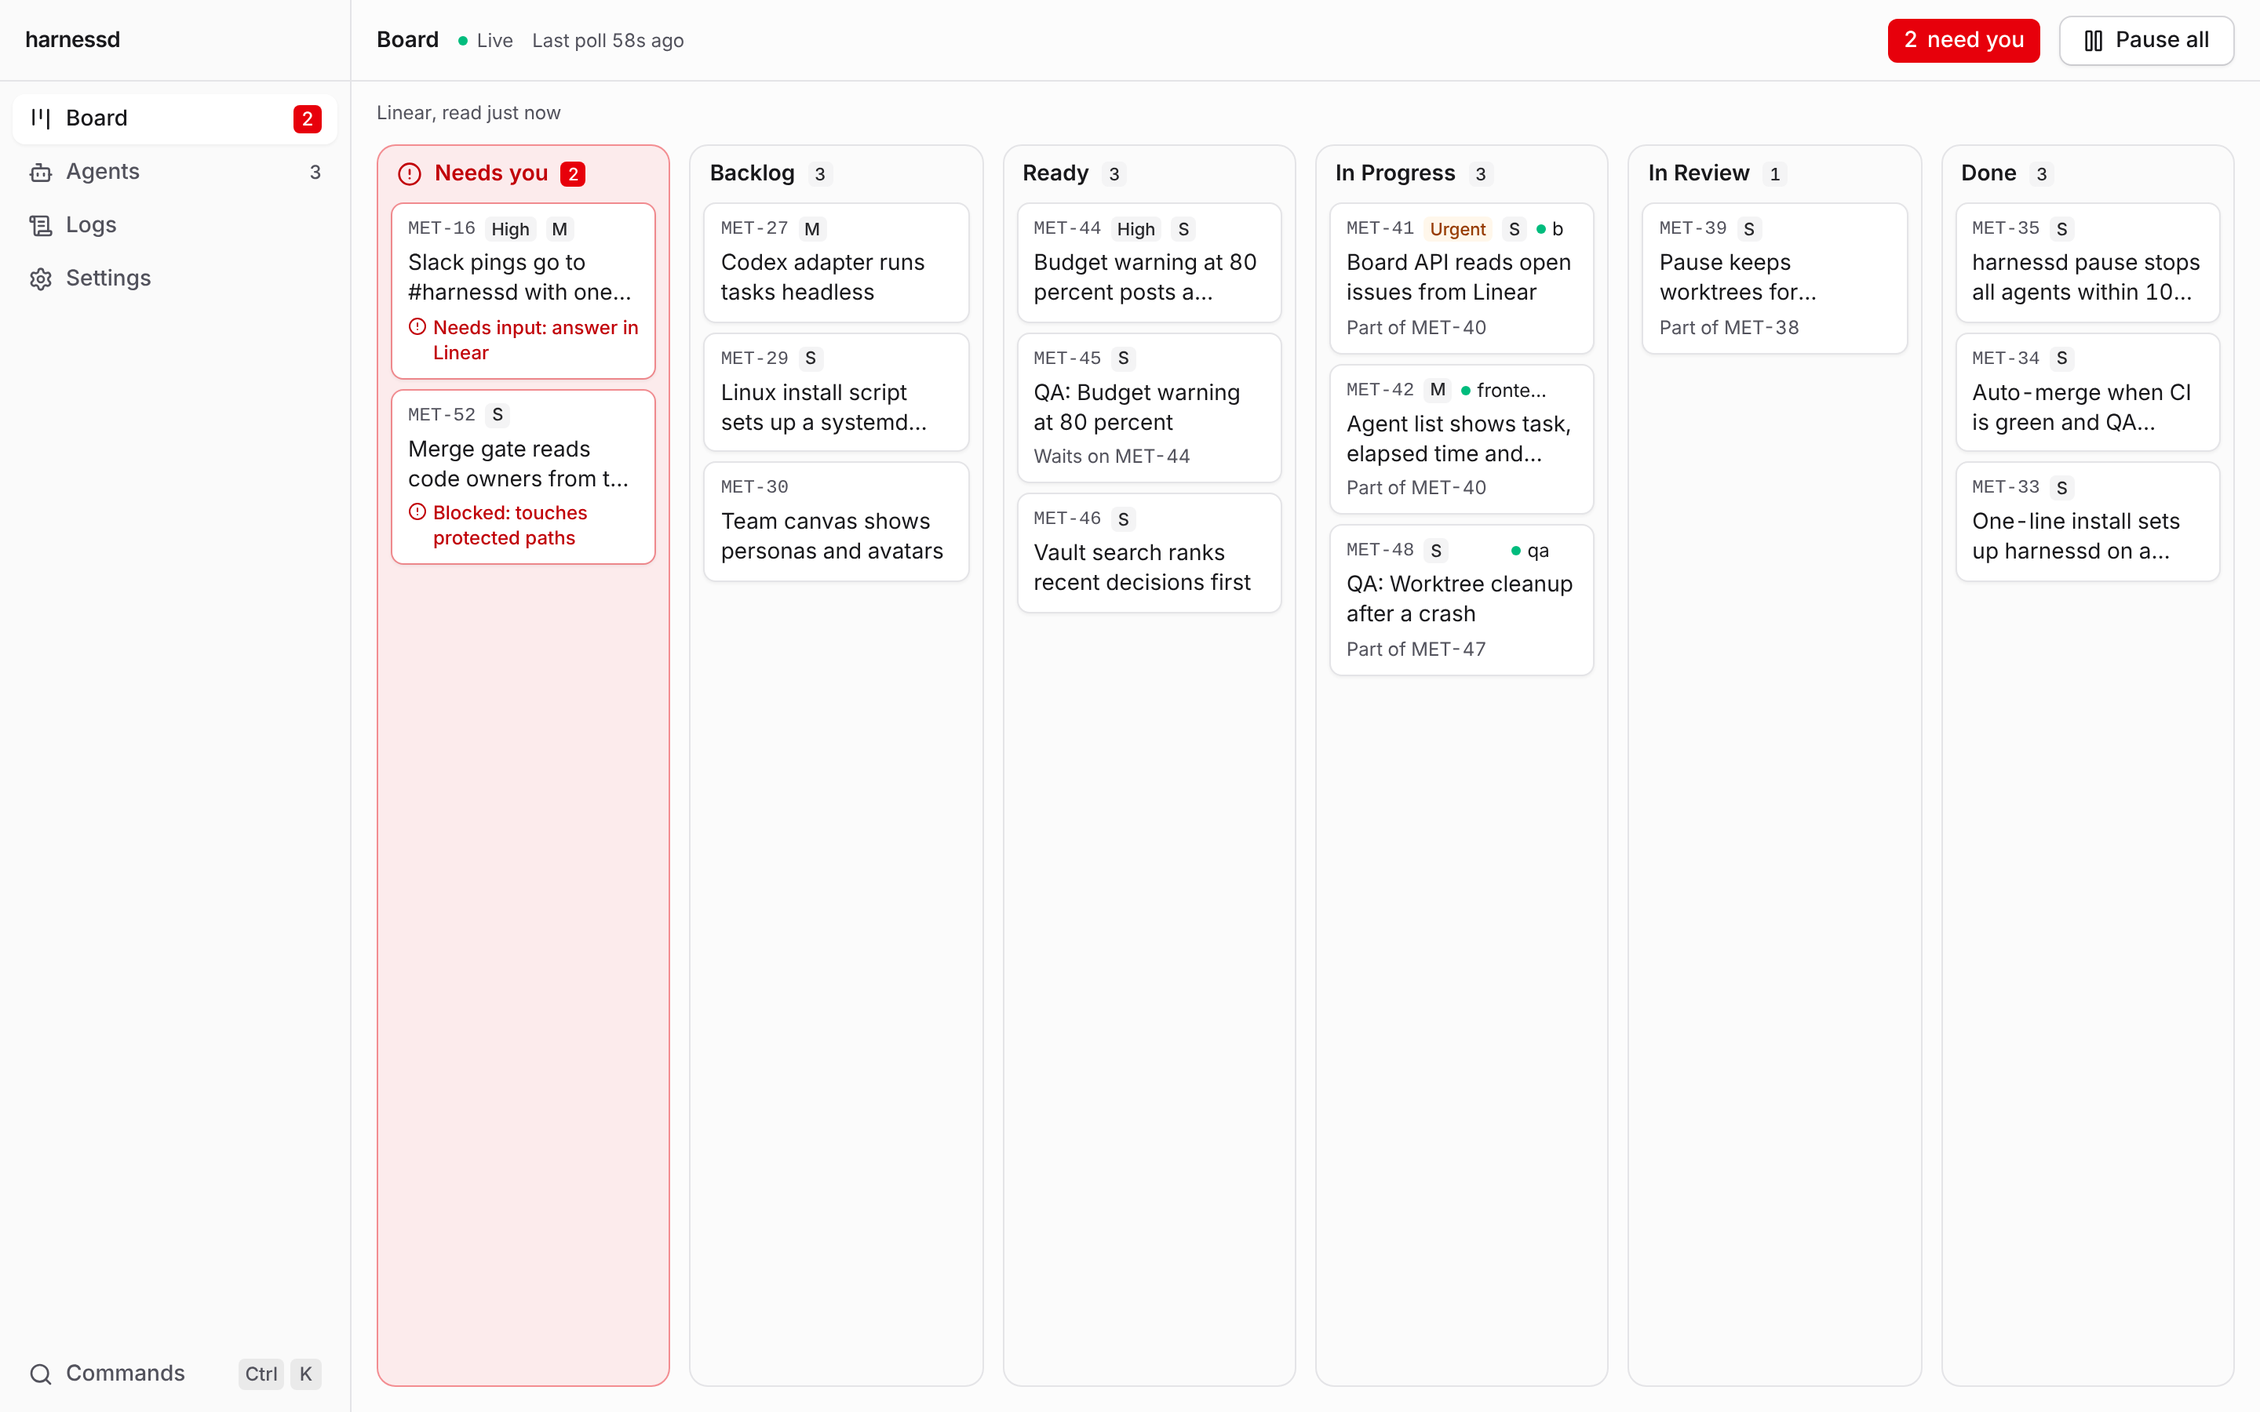
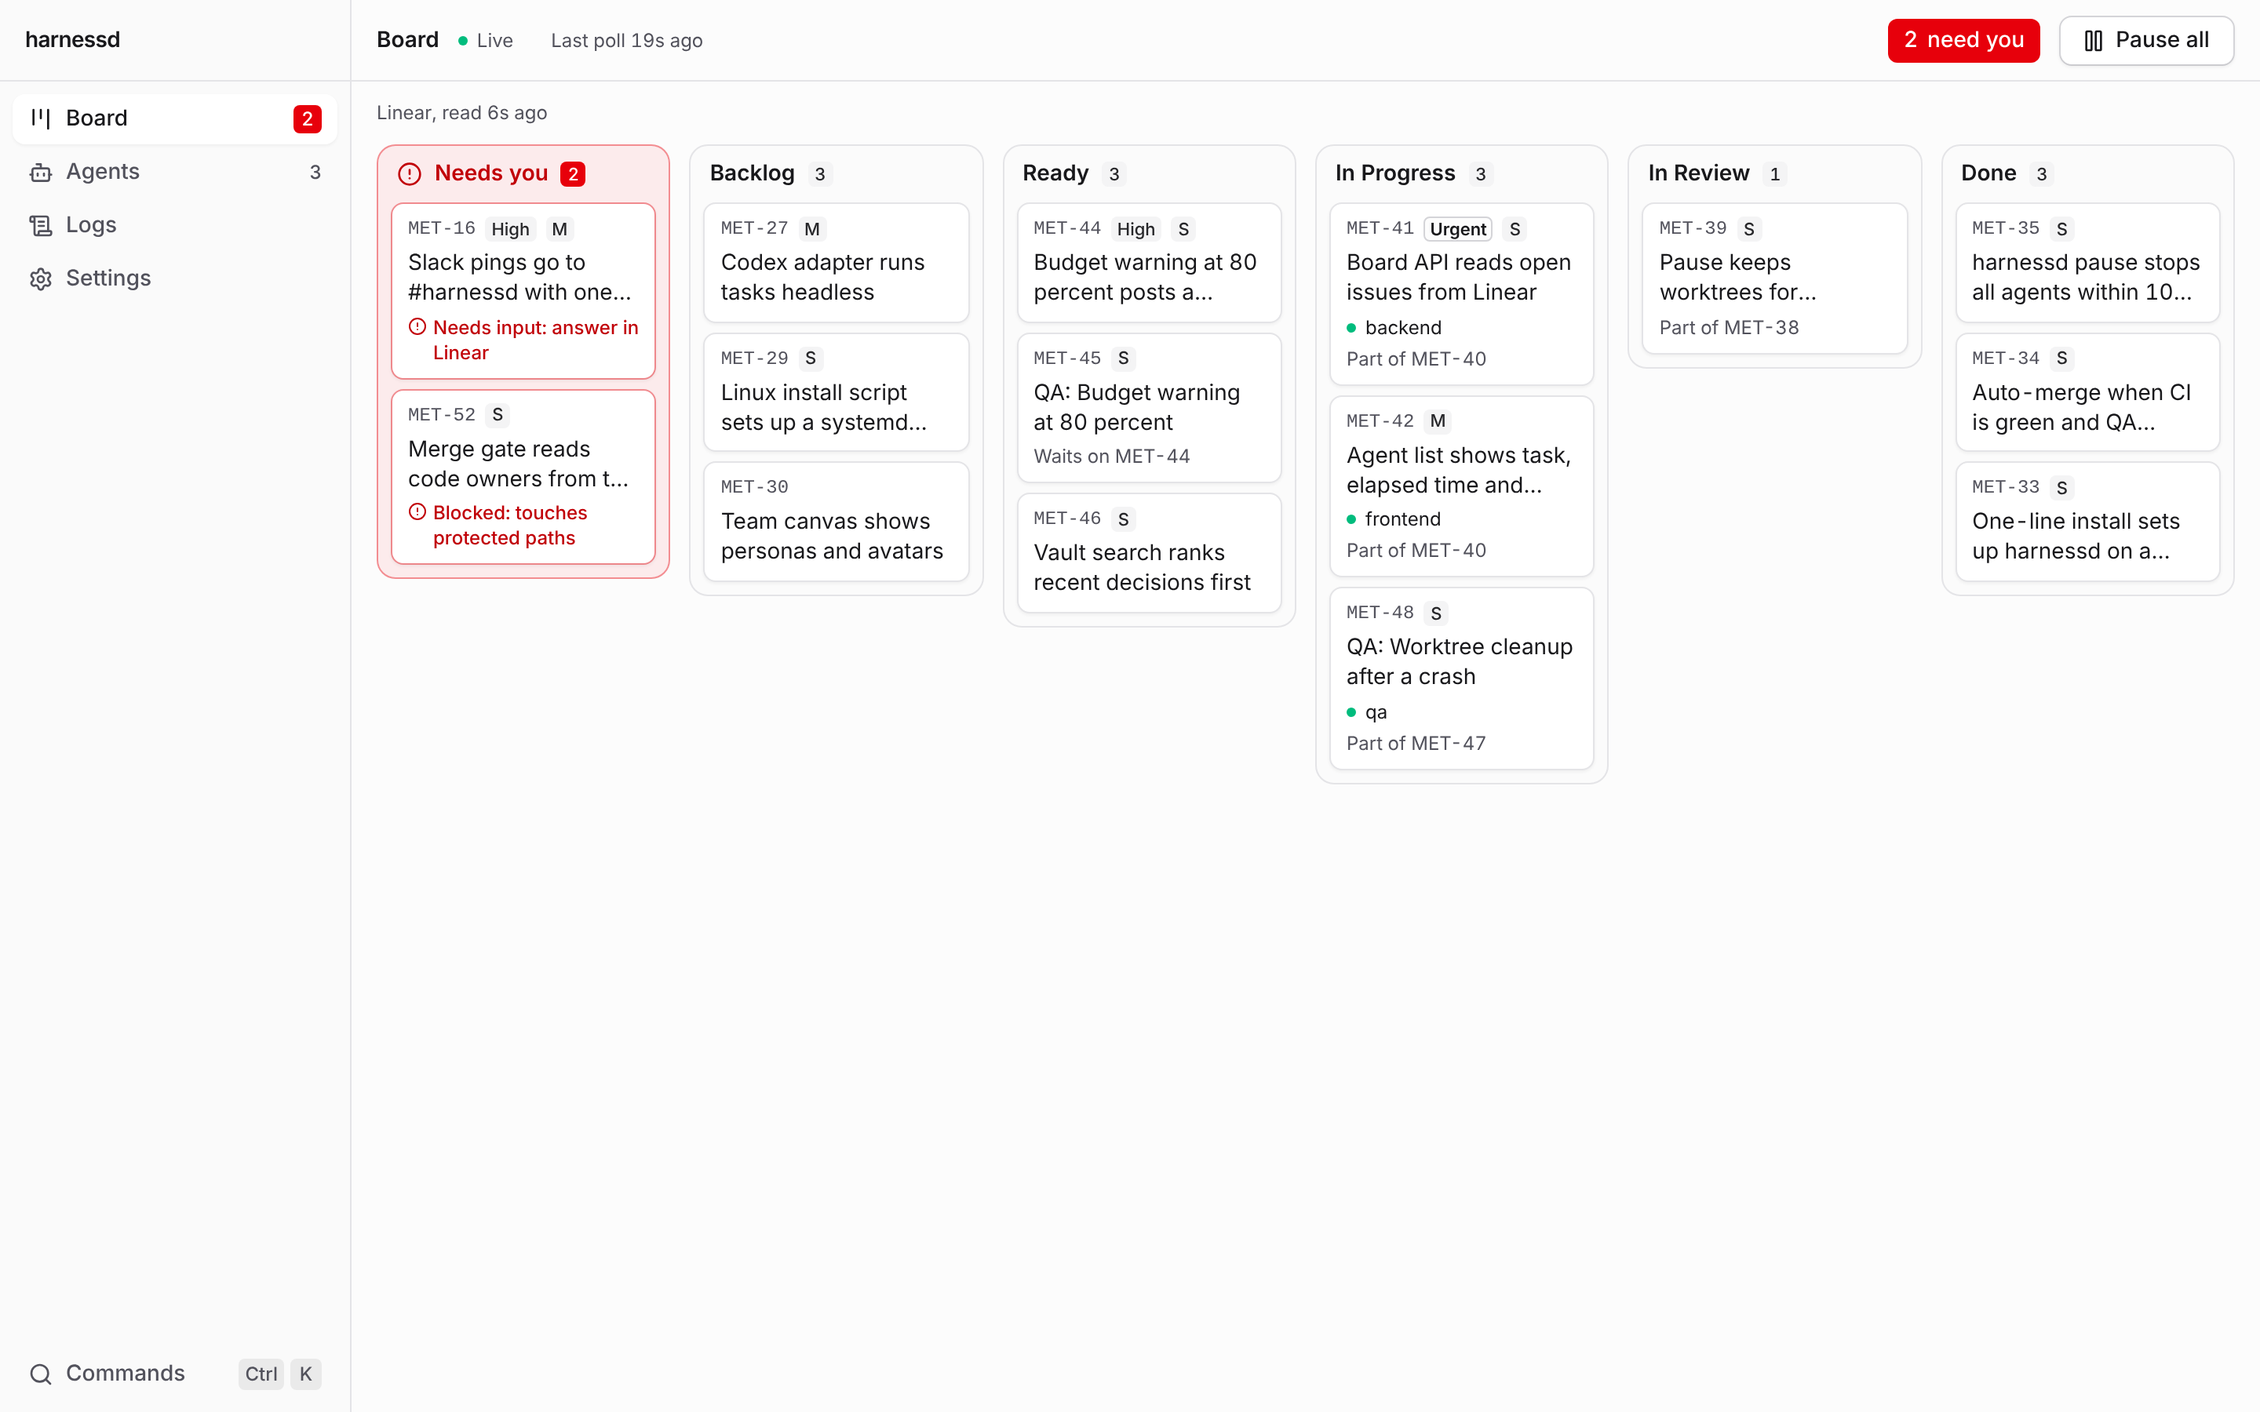
fix(ui): MET-29 act on the impeccable audit
- Focus returns after the palette; a view change focuses the content and sets the title.
- The poll time sits outside the live region.
- Touch targets get a centred 44 px hit area on coarse pointers.
- The Agents table hides Budget and Tokens below 1024 px.
- Recapture the screenshots.

Claude-Session: https://claude.ai/code/session_01D1Be13HZ2JYVmWMPQne1MW

diff --git a/packages/ui/app/src/shell/AppHeader.tsx b/packages/ui/app/src/shell/AppHeader.tsx
@@ -59,8 +59,13 @@ export function AppHeader({
       <div className="flex min-w-0 flex-1 items-center gap-3 text-muted-foreground text-xs">
         <Tooltip>
           <TooltipTrigger
-            render={<span className="inline-flex items-center gap-1.5" />}
-            aria-label={`Connection: ${c.text}`}
+            render={
+              <button
+                type="button"
+                className="inline-flex cursor-default items-center gap-1.5 rounded-sm outline-none focus-visible:ring-2 focus-visible:ring-ring"
+              />
+            }
+            aria-label={`Connection: ${c.text}. ${c.hint}`}
           >
             <span aria-hidden="true" className={cn("size-1.5 rounded-full", c.dot)} />
             <span className="hidden sm:inline">{c.text}</span>
@@ -68,20 +73,23 @@ export function AppHeader({
           <TooltipPopup side="bottom">{c.hint}</TooltipPopup>
         </Tooltip>
         <p className="min-w-0 truncate" role="status" aria-live="polite">
-          {paused ? (
+          {paused && (
             <span className="font-medium text-warning-foreground">
               {pause.busy === "pausing"
                 ? "Pausing all agents."
                 : `Paused${since ? ` since ${clockTime(since)}` : ""}${pause.confirmed.reason ? `: ${pause.confirmed.reason}` : ""}. Nothing is dispatched.`}
             </span>
-          ) : pauseUnknown ? (
+          )}
+          {!paused && pauseUnknown && (
             <span className="text-warning-foreground">Pause state unknown: {pauseUnknown}</span>
-          ) : (
-            <span className="hidden md:inline">
-              {lastPollAt ? `Last poll ${sinceText(lastPollAt, now)}` : "No poll yet"}
-            </span>
           )}
         </p>
+        {/* Outside the live region: it changes every second. */}
+        {!paused && !pauseUnknown && (
+          <span className="hidden truncate md:inline">
+            {lastPollAt ? `Last poll ${sinceText(lastPollAt, now)}` : "No poll yet"}
+          </span>
+        )}
       </div>
       {boardDown && (
         <Badge variant="warning" size="lg">
@@ -92,7 +100,7 @@ export function AppHeader({
         <button
           type="button"
           onClick={onShowNeedsYou}
-          className="inline-flex h-7 cursor-pointer items-center gap-1.5 rounded-md bg-destructive px-2.5 font-medium text-sm text-white outline-none transition-colors duration-100 hover:bg-destructive/90 focus-visible:ring-2 focus-visible:ring-ring focus-visible:ring-offset-2 focus-visible:ring-offset-background"
+          className="relative inline-flex min-h-7 cursor-pointer items-center gap-1.5 whitespace-nowrap rounded-md bg-destructive pointer-coarse:after:absolute pointer-coarse:after:top-1/2 pointer-coarse:after:left-1/2 pointer-coarse:after:size-11 pointer-coarse:after:-translate-1/2 px-2.5 font-medium text-sm text-white outline-none transition-colors duration-100 hover:bg-destructive/90 focus-visible:ring-2 focus-visible:ring-ring focus-visible:ring-offset-2 focus-visible:ring-offset-background"
         >
           <span className="tabular-nums">{needsYou}</span>
           <span className="hidden sm:inline">{needsYou === 1 ? "needs you" : "need you"}</span>

diff --git a/packages/ui/app/src/App.tsx b/packages/ui/app/src/App.tsx
@@ -1,6 +1,6 @@
 // The app shell: a left sidebar of views, a header with the kill switch, and the command
 // palette (Cmd+K) that runs every action.
-import { useCallback, useEffect, useMemo, useState } from "react";
+import { useCallback, useEffect, useMemo, useRef, useState } from "react";
 import { useHarnessd } from "./api.ts";
 import { CommandPalette } from "./components/ui/command.tsx";
 import { SidebarInset } from "./components/ui/sidebar.tsx";
@@ -41,6 +41,7 @@ export function App() {
   const pause = usePause(api.pause, api.setPause);
   const status = useStatus();
   const [paletteOpen, setPaletteOpen] = useState(false);
+  const { recheck } = status;
 
   const waiting = api.board.status === "ready" ? api.board.data.issues.filter(needsYou).length : 0;
   const boardDown =
@@ -56,9 +57,21 @@ export function App() {
       ? status.status.data.filter((c) => c.state === "fail" || c.state === "missing").length
       : 0;
 
+  const title = NAV.find((n) => n.view === route.view)?.title ?? "Board";
   useEffect(() => {
-    document.title = waiting > 0 ? `(${waiting}) harnessd` : "harnessd";
-  }, [waiting]);
+    document.title = `${waiting > 0 ? `(${waiting}) ` : ""}${title} · harnessd`;
+  }, [waiting, title]);
+
+  // A view change moves focus to the content, so a screen reader hears the new view.
+  const firstView = useRef(true);
+  // biome-ignore lint/correctness/useExhaustiveDependencies: runs on each view change by design
+  useEffect(() => {
+    if (firstView.current) {
+      firstView.current = false;
+      return;
+    }
+    document.getElementById("main")?.focus({ preventScroll: true });
+  }, [route.view]);
 
   const goTo = useCallback((view: View) => go({ view }), [go]);
 
@@ -136,7 +149,7 @@ export function App() {
         title: "Run the checks again",
         group: "Settings",
         keywords: ["doctor", "status"],
-        run: () => void status.recheck(),
+        run: () => void recheck(),
       },
       {
         id: "reload-board",
@@ -156,9 +169,16 @@ export function App() {
       themeCmd("light", "Use the light theme"),
       themeCmd("dark", "Use the dark theme"),
     ];
-  }, [pause.view.shown.paused, pause.toggle, route.view, goTo, theme, setTheme, status, api.retry]);
-
-  const title = NAV.find((n) => n.view === route.view)?.title ?? "Board";
+  }, [
+    pause.view.shown.paused,
+    pause.toggle,
+    route.view,
+    goTo,
+    theme,
+    setTheme,
+    recheck,
+    api.retry,
+  ]);
 
   return (
     <div className="flex h-full overflow-hidden">
@@ -190,7 +210,7 @@ export function App() {
           pauseUnknown={pause.unknown}
           title={title}
         />
-        <main className="flex min-h-0 flex-1 flex-col" id="main" tabIndex={-1}>
+        <main className="flex min-h-0 flex-1 flex-col" id="main" aria-label={title} tabIndex={-1}>
           {route.view === "board" && (
             <Board
               board={api.board}

diff --git a/packages/ui/app/src/views/Agents.tsx b/packages/ui/app/src/views/Agents.tsx
@@ -89,10 +89,10 @@ function AgentRows({ agent, now }: { agent: AgentView; now: Date }) {
           <td className="px-4 py-2.5 text-right align-top tabular-nums">
             {duration(now.getTime() - Date.parse(run.startedAt))}
           </td>
-          <td className="hidden px-4 py-2.5 align-top text-xs md:table-cell">
+          <td className="hidden px-4 py-2.5 align-top text-xs lg:table-cell">
             <Budget now={now} run={run} />
           </td>
-          <td className="hidden px-4 py-2.5 text-right align-top tabular-nums md:table-cell">
+          <td className="hidden px-4 py-2.5 text-right align-top tabular-nums lg:table-cell">
             {tokens(run.tokens)}
           </td>
         </tr>
@@ -153,8 +153,8 @@ export function Agents({
                   <col className="w-28 md:w-44" />
                   <col />
                   <col className="w-20 md:w-24" />
-                  <col className="hidden md:table-column md:w-56" />
-                  <col className="hidden md:table-column md:w-20" />
+                  <col className="hidden lg:table-column lg:w-56" />
+                  <col className="hidden lg:table-column lg:w-20" />
                 </colgroup>
                 <thead className="bg-muted/72 text-muted-foreground text-xs">
                   <tr>
@@ -167,10 +167,16 @@ export function Agents({
                     <th className="px-4 py-2 text-right font-medium" scope="col">
                       Elapsed
                     </th>
-                    <th className="px-4 py-2 text-left font-medium" scope="col">
+                    <th
+                      className="hidden px-4 py-2 text-left font-medium lg:table-cell"
+                      scope="col"
+                    >
                       Budget used
                     </th>
-                    <th className="px-4 py-2 text-right font-medium" scope="col">
+                    <th
+                      className="hidden px-4 py-2 text-right font-medium lg:table-cell"
+                      scope="col"
+                    >
                       Tokens
                     </th>
                   </tr>

diff --git a/packages/ui/app/src/components/ui/button.tsx b/packages/ui/app/src/components/ui/button.tsx
@@ -7,7 +7,7 @@ import { cva, type VariantProps } from "class-variance-authority";
 import { cn } from "../../lib/cn.ts";
 
 const buttonVariants = cva(
-  "relative inline-flex shrink-0 cursor-pointer items-center justify-center gap-2 whitespace-nowrap rounded-[var(--control-radius)] border font-medium text-sm outline-none transition-[box-shadow,scale,background-color] duration-150 [&:active:not([aria-haspopup]):not(:disabled):not([aria-disabled=true])]:scale-[0.97] before:pointer-events-none before:absolute before:inset-0 before:rounded-[calc(var(--control-radius)-1px)] pointer-coarse:after:absolute pointer-coarse:after:size-full pointer-coarse:after:min-h-11 pointer-coarse:after:min-w-11 focus-visible:ring-2 focus-visible:ring-inset focus-visible:ring-ring focus-visible:ring-offset-1 focus-visible:ring-offset-background disabled:pointer-events-none disabled:opacity-64 aria-disabled:cursor-not-allowed aria-disabled:opacity-64 [&_svg:not([class*='size-'])]:size-4 [&_svg]:pointer-events-none [&_svg]:shrink-0 [&_svg]:-mx-0.5",
+  "relative inline-flex shrink-0 cursor-pointer items-center justify-center gap-2 whitespace-nowrap rounded-[var(--control-radius)] border font-medium text-sm outline-none transition-[box-shadow,scale,background-color] duration-150 [&:active:not([aria-haspopup]):not(:disabled):not([aria-disabled=true])]:scale-[0.97] before:pointer-events-none before:absolute before:inset-0 before:rounded-[calc(var(--control-radius)-1px)] pointer-coarse:after:absolute pointer-coarse:after:top-1/2 pointer-coarse:after:left-1/2 pointer-coarse:after:size-full pointer-coarse:after:min-h-11 pointer-coarse:after:min-w-11 pointer-coarse:after:-translate-1/2 focus-visible:ring-2 focus-visible:ring-inset focus-visible:ring-ring focus-visible:ring-offset-1 focus-visible:ring-offset-background disabled:pointer-events-none disabled:opacity-64 aria-disabled:cursor-not-allowed aria-disabled:opacity-64 [&_svg:not([class*='size-'])]:size-4 [&_svg]:pointer-events-none [&_svg]:shrink-0 [&_svg]:-mx-0.5",
   {
     defaultVariants: { size: "default", variant: "default" },
     variants: {

diff --git a/packages/ui/app/src/components/ui/sidebar.tsx b/packages/ui/app/src/components/ui/sidebar.tsx
@@ -94,7 +94,7 @@ function SidebarMenuItem({ className, ...props }: React.ComponentProps<"li">) {
 }
 
 const MENU_BUTTON =
-  "flex h-8 w-full cursor-pointer items-center justify-center gap-2 overflow-hidden rounded-[var(--control-radius)] px-2 text-left font-medium text-sidebar-muted-foreground text-sm outline-hidden ring-ring transition-colors duration-100 hover:bg-sidebar-row-hover hover:text-sidebar-foreground focus-visible:ring-2 focus-visible:ring-inset active:bg-sidebar-row-active md:justify-start md:px-2.5 aria-[current=page]:bg-sidebar-row-active aria-[current=page]:text-sidebar-foreground aria-[current=page]:shadow-xs/5 dark:aria-[current=page]:shadow-none [&>svg]:size-4 [&>svg]:shrink-0";
+  "relative flex h-8 w-full cursor-pointer items-center justify-center gap-2 overflow-hidden rounded-[var(--control-radius)] px-2 text-left font-medium text-sidebar-muted-foreground text-sm outline-hidden ring-ring transition-colors duration-100 hover:bg-sidebar-row-hover hover:text-sidebar-foreground focus-visible:ring-2 focus-visible:ring-inset active:bg-sidebar-row-active md:justify-start md:px-2.5 aria-[current=page]:bg-sidebar-row-active aria-[current=page]:text-sidebar-foreground aria-[current=page]:shadow-xs/5 dark:aria-[current=page]:shadow-none [&>svg]:size-4 [&>svg]:shrink-0 pointer-coarse:after:absolute pointer-coarse:after:inset-x-0 pointer-coarse:after:top-1/2 pointer-coarse:after:h-11 pointer-coarse:after:-translate-y-1/2";
 
 function SidebarMenuButton({
   className,

diff --git a/packages/ui/app/src/components/ui/command.tsx b/packages/ui/app/src/components/ui/command.tsx
@@ -112,6 +112,7 @@ function CommandBody<T extends Command>({
       <div className="flex items-center gap-2 border-b px-4">
         <SearchIcon aria-hidden="true" className="size-4 shrink-0 text-muted-foreground" />
         <input
+          aria-label="Command"
           aria-activedescendant={current ? `${id}-${index}` : undefined}
           aria-autocomplete="list"
           aria-controls={`${id}-list`}
@@ -136,6 +137,7 @@ function CommandBody<T extends Command>({
         id={`${id}-list`}
         role="listbox"
         aria-label="Commands"
+        tabIndex={-1}
       >
         {items.length === 0 && (
           <p className="px-2 py-6 text-center text-muted-foreground text-sm">

diff --git a/packages/ui/app/src/views/Logs.tsx b/packages/ui/app/src/views/Logs.tsx
@@ -22,10 +22,12 @@ export function Logs({ logs, retry }: { logs: Load<LogLine[]>; retry: () => void
   const shown = frozen ?? lines;
   const unseen = frozen ? lines.filter((l) => l.seq > (frozen.at(-1)?.seq ?? 0)).length : 0;
 
+  // Runs when lines arrive, not on every clock tick.
+  // biome-ignore lint/correctness/useExhaustiveDependencies: re-run only when lines arrive
   useLayoutEffect(() => {
     const el = body.current;
     if (el && follow) el.scrollTop = el.scrollHeight;
-  });
+  }, [shown.length, follow]);
 
   function onScroll() {
     const el = body.current;

diff --git a/packages/ui/app/src/views/Board.tsx b/packages/ui/app/src/views/Board.tsx
@@ -54,7 +54,7 @@ function IssueRow({ issue, paused }: { issue: BoardIssue; paused: boolean }) {
           )}
           <ExternalLinkIcon
             aria-hidden="true"
-            className="ms-auto size-3 opacity-0 transition-opacity group-hover:opacity-100"
+            className="ms-auto size-3 opacity-0 transition-opacity group-hover:opacity-100 group-focus-visible:opacity-100"
           />
         </span>
         <span className="line-clamp-2 text-foreground leading-snug">{issue.title}</span>

diff --git a/packages/ui/app/src/views/Settings.tsx b/packages/ui/app/src/views/Settings.tsx
@@ -77,7 +77,9 @@ export function useStatus() {
   useEffect(() => {
     void load();
   }, [load]);
-  return { status, checking, recheck: () => load(true), retry: () => load() };
+  const recheck = useCallback(() => load(true), [load]);
+  const retry = useCallback(() => load(), [load]);
+  return { status, checking, recheck, retry };
 }
 
 export function Settings({ status }: { status: ReturnType<typeof useStatus> }) {
